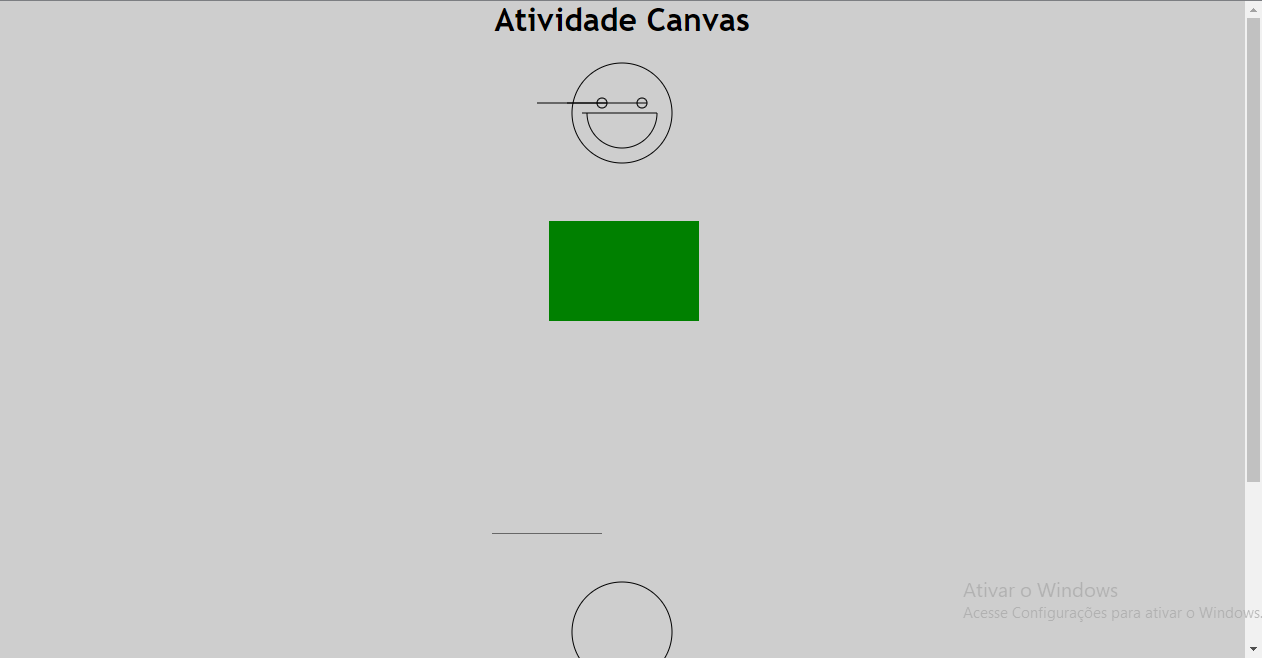
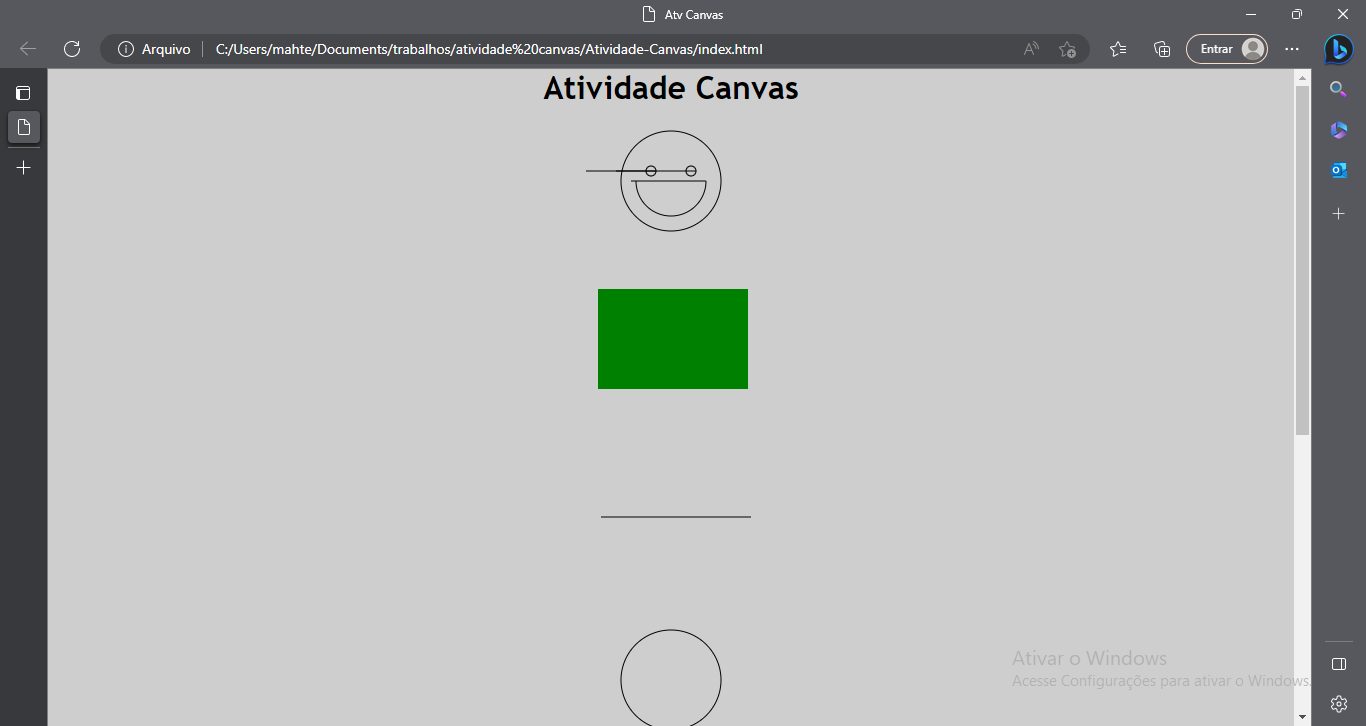
Décimo-quarto Commit - Atualização de arquivo JS e alteração de arquivos PNG

diff --git a/js/script.js b/js/script.js
@@ -1,4 +1,4 @@
-/*const canvas1 = document.getElementById ('canvas1');
+const canvas1 = document.getElementById ('canvas1');
 const ctx = canvas1.getContext ('2d');
 ctx.beginPath();
 ctx.arc(150, 75, 50, 0, Math.PI * 2, true);
@@ -8,7 +8,7 @@ ctx.moveTo(65, 65);
 ctx.arc(170, 65, 5, 0, Math.PI * 2, true);
 ctx.moveTo(95, 65);
 ctx.arc(130, 65, 5, 0, Math.PI * 2, true);
-ctx.stroke();*/
+ctx.stroke();
 
 const canvas2 = document.getElementById('canvas2');
 const ctx2 = canvas2.getContext('2d');
